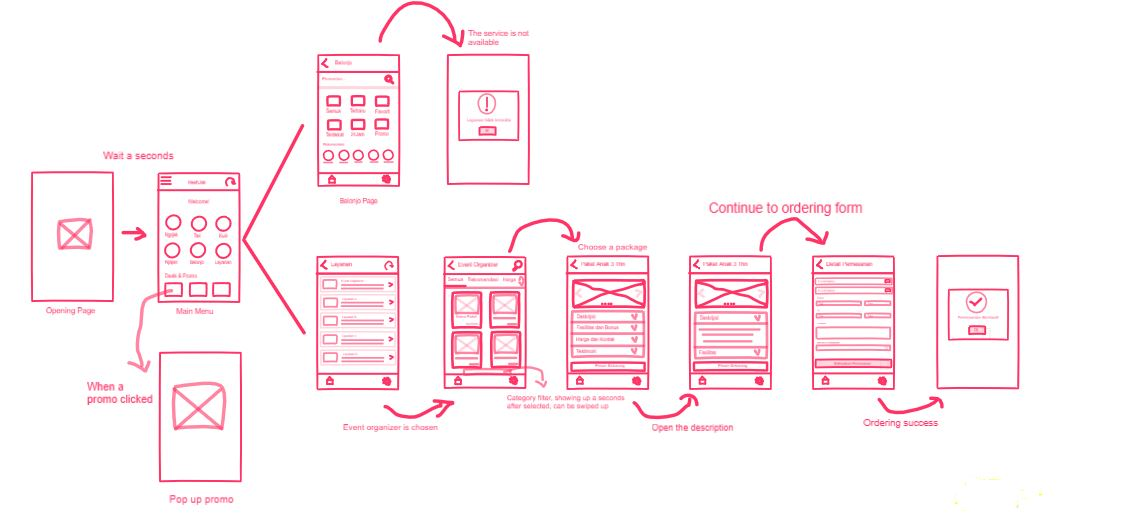
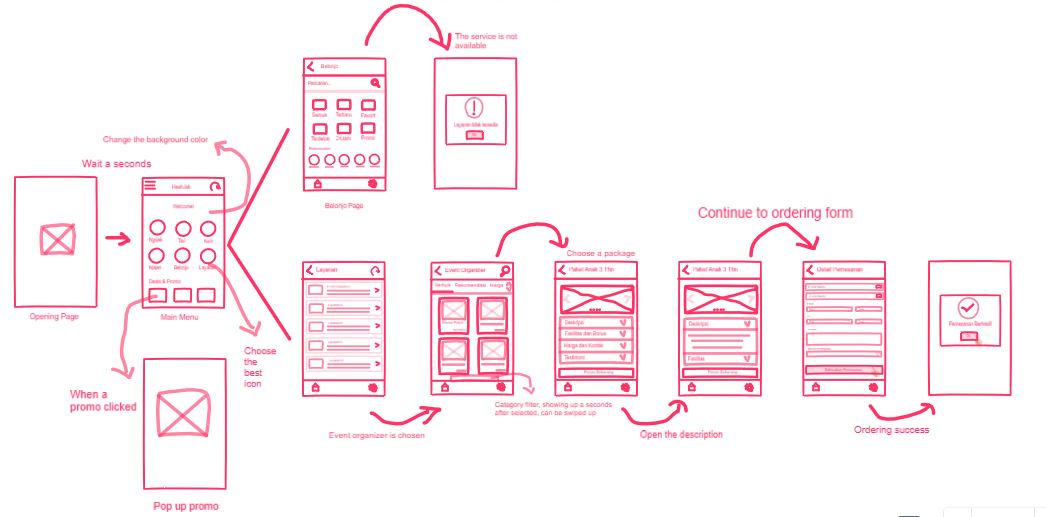
Done

Changed region(s): [[0.0, 0.0, 0.979, 0.9981], [0.8566, 0.9981, 0.8872, 1.0]]

diff --git a/README.md b/README.md
@@ -268,5 +268,6 @@ https://projects.invisionapp.com/freehand/document/bT6CVg18g
 I designed those sketch based on problem and resolution that I got from the usability evaluation. I adapt those resolutions on every prototype screen in my proposed design. On every screen, except the menu, I make a bottom navigation bar to make it easier to reach the main menu or settings page. I changed the word "Numpak mobil" and "Ngirim barang" to "Taxi" and "Kurir", respectively. I also changed the word "Terbaik" to "Favorit" in Belonjo. I want to make the menu name more acceptable and understandable. For the promo in the main menu, I try to make it visible by pop up on click. In the "Layanan" former design, we have screens to choose event type, then choose the event organizer, then choosing the package. I think, we have too much screen for this. People may get confused and lost on the next screen. Then, I try to remake those 3 screens into 1 screen which has a search button and filter tab. It will be easier to choose the desired package. To give more information to the customer, I add the contact person and testimony into package details. I also changed the button for ordering the package with the new one, the more noticeable button with longer size and have a text in it. To adorn the app's design, I would like to replace some icons with the new one and change the background color.
 
 ### High-Fidelity Interactive-Prototype
-> Create a high-fidelity interactive-prototype based on the `Sketch` you have drawn.
-> You can use any prototyping tools: InVision, Adobe XD, or even Microsoft PowerPoint.
+
+For high-fidelity interactive prototype, kindly find my Invision prototype on https://invis.io/V5RSYJQ8C6S#/360986744_1-Opening
+In case you miss my Invision prototype, please check the video on https://youtu.be/ZtYvXudpAsI
